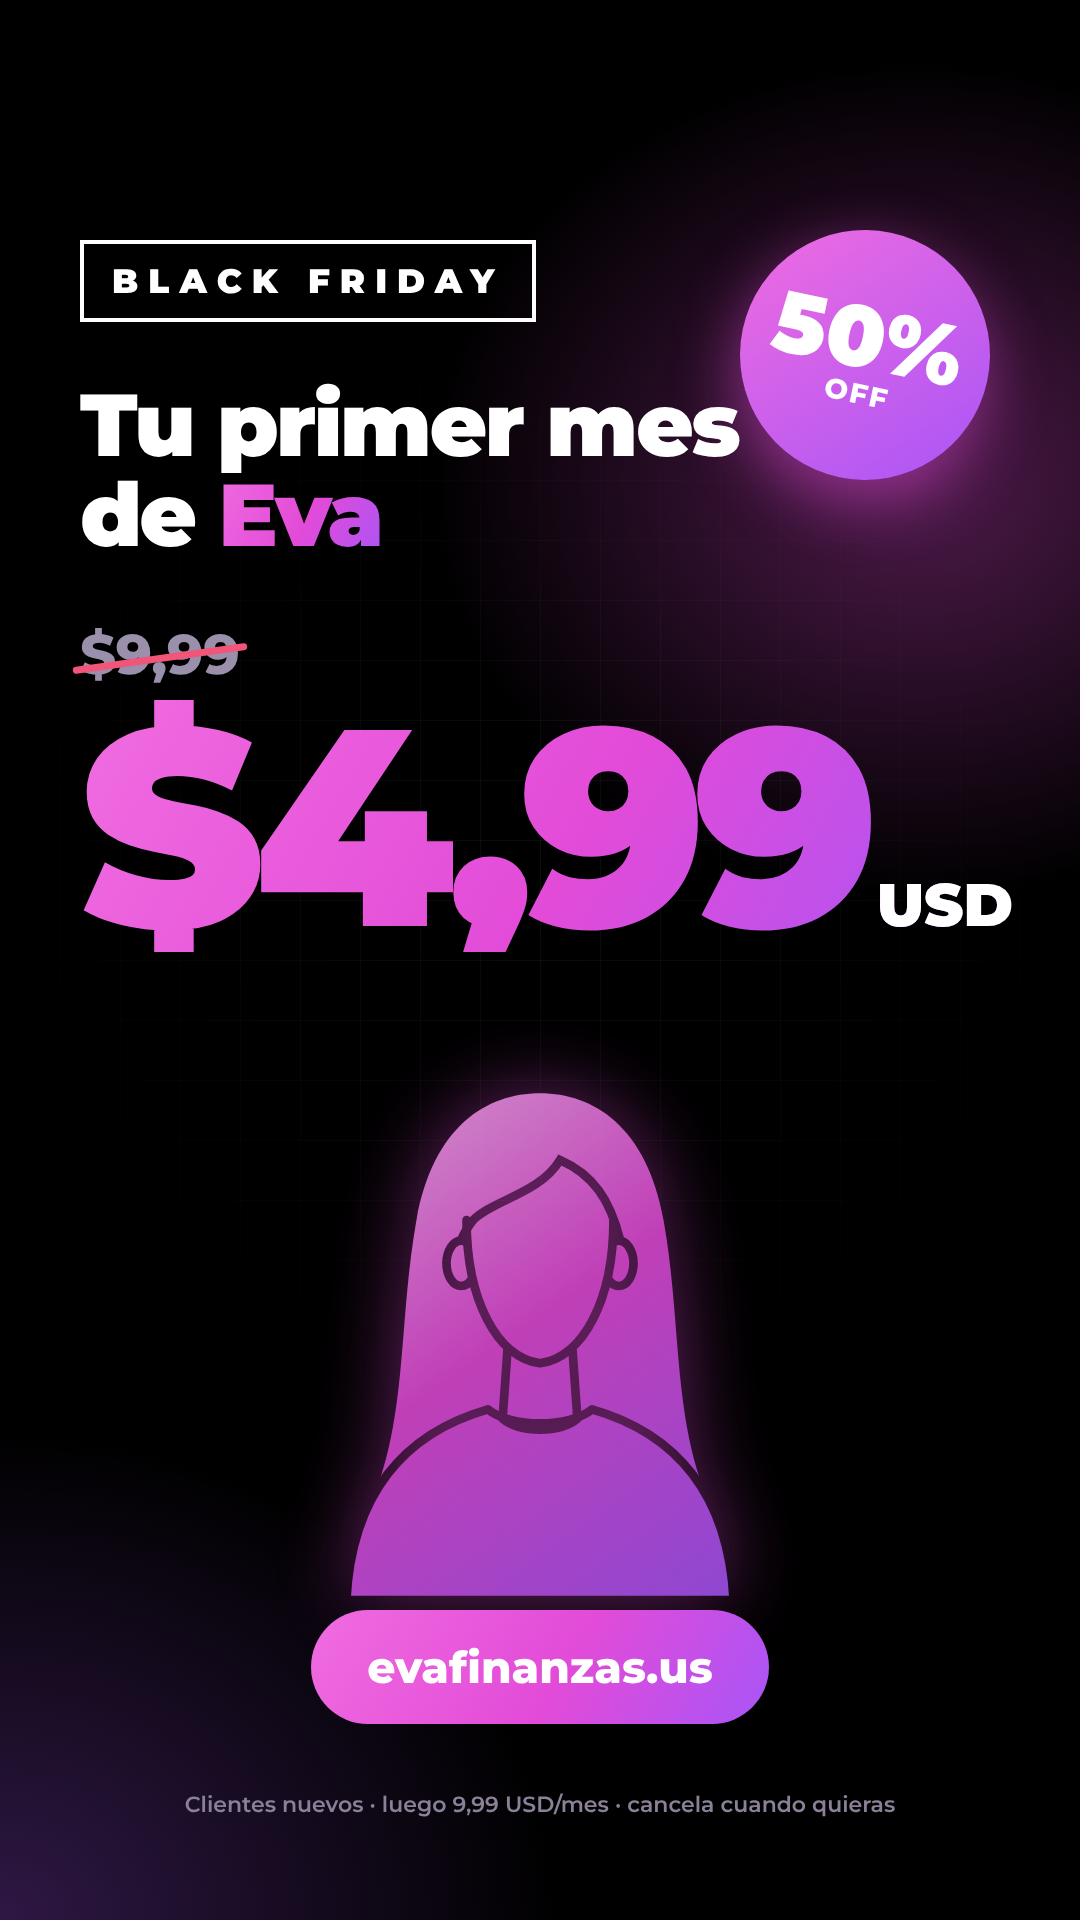
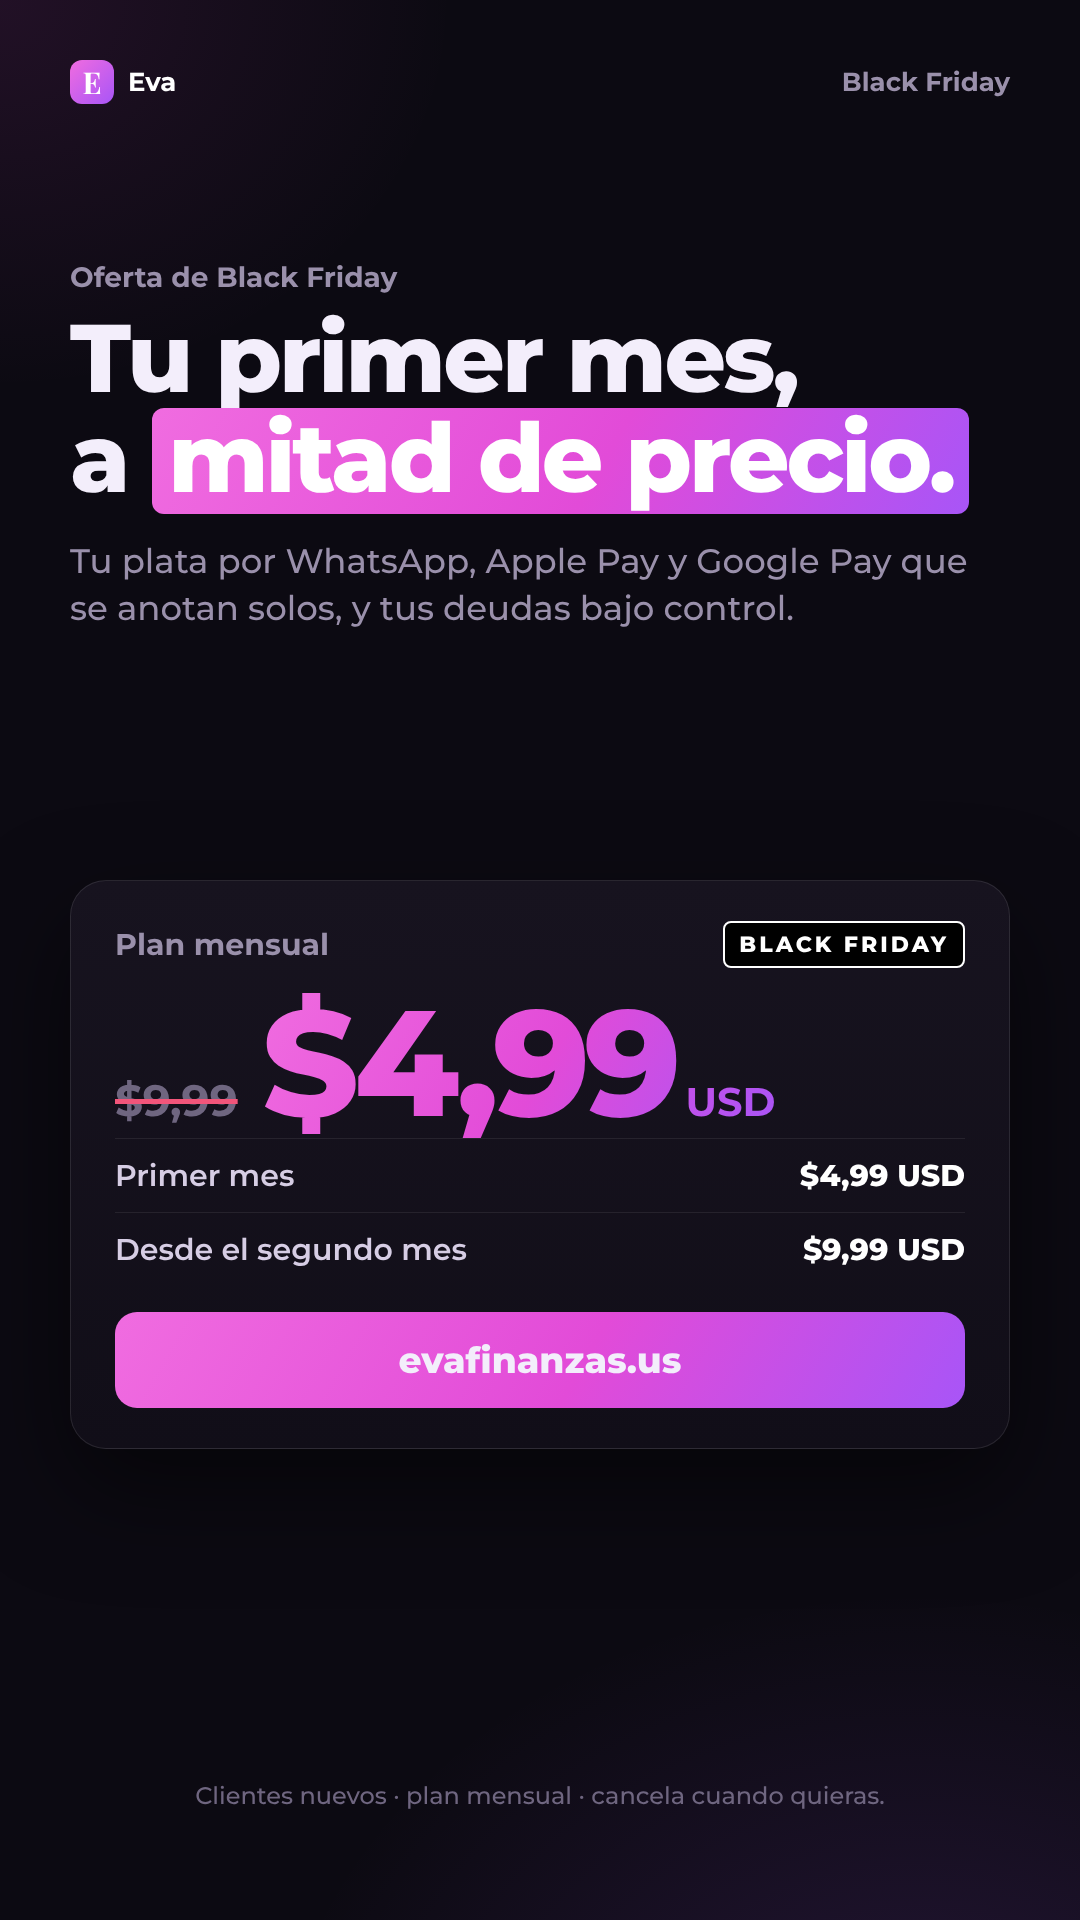
Flyer Black Friday rehecho en estilo app (tipo Structura)
Claude-Session: https://claude.ai/code/session_01Trw1hyWcsiQP2aoeACBkmq

diff --git a/promo/contenido/eva-black-friday-app.html b/promo/contenido/eva-black-friday-app.html
@@ -1,0 +1,95 @@
+<!doctype html>
+<html lang="es"><head><meta charset="utf-8">
+<title>Eva · Black Friday (estilo app)</title>
+<!-- Dos carruseles 1080x1350 estilo "pantallas de producto": A) Tu mes en un chat (6), B) ¿Cuánto te queda de verdad? (5). -->
+<style>
+@font-face{font-family:'Montserrat';font-weight:500;src:url(../fonts/montserrat-latin-500-normal.woff2) format('woff2')}
+@font-face{font-family:'Montserrat';font-weight:600;src:url(../fonts/montserrat-latin-600-normal.woff2) format('woff2')}
+@font-face{font-family:'Montserrat';font-weight:700;src:url(../fonts/montserrat-latin-700-normal.woff2) format('woff2')}
+@font-face{font-family:'Montserrat';font-weight:800;src:url(../fonts/montserrat-latin-800-normal.woff2) format('woff2')}
+@font-face{font-family:'Playfair Display';font-weight:700;src:url(../fonts/playfair-display-latin-700-normal.woff2) format('woff2')}
+:root{--bg:#0C0A12;--rosa:#F06CE0;--brand:#E24BD8;--morado:#A855F7;--txt:#F3EEFB;--muted:#9A90AB;--ok:#2DD4A0;--bad:#F2557A;--oro:#F5B342}
+*{box-sizing:border-box;margin:0;padding:0}
+body{background:#222;font-family:'Montserrat',sans-serif;color:var(--txt)}
+.lam{width:1080px;height:1350px;position:relative;overflow:hidden;background:radial-gradient(1000px 800px at 85% 110%,rgba(168,85,247,.16),transparent 65%),radial-gradient(700px 600px at 0% 0%,rgba(226,75,216,.10),transparent 65%),var(--bg);margin-bottom:20px}
+.hd{position:absolute;left:70px;right:70px;top:60px;display:flex;justify-content:space-between;align-items:center;font-size:26px;font-weight:700;color:var(--muted)}
+.mk{display:flex;align-items:center;gap:14px;color:#fff}
+.mk i{width:44px;height:44px;border-radius:12px;background:linear-gradient(135deg,var(--rosa),var(--morado));display:flex;align-items:center;justify-content:center;font-family:'Playfair Display';font-style:normal;font-size:30px}
+.cp{position:absolute;left:70px;right:70px;top:190px}
+.lbl{font-size:28px;font-weight:700;color:var(--muted)}
+h1{font-size:88px;font-weight:800;letter-spacing:-3px;line-height:1.04;margin-top:14px}
+h2{font-size:72px;font-weight:800;letter-spacing:-2.5px;line-height:1.06;margin-top:14px}
+.sub{font-size:34px;font-weight:500;color:var(--muted);margin-top:24px;line-height:1.4}
+.grad{background:linear-gradient(120deg,var(--rosa),var(--brand) 55%,var(--morado));-webkit-background-clip:text;background-clip:text;-webkit-text-fill-color:transparent}
+.desl{position:absolute;left:70px;bottom:70px;font-size:26px;font-weight:700;padding:16px 28px;border-radius:999px;background:rgba(255,255,255,.07);border:1px solid rgba(255,255,255,.12)}
+.panel{position:absolute;left:70px;right:70px;border-radius:36px;background:linear-gradient(180deg,#17131f,#110e18);border:1px solid rgba(255,255,255,.08);padding:36px 40px}
+.fila{display:flex;align-items:center;gap:24px;padding:22px 0;border-bottom:1px solid rgba(255,255,255,.07);font-size:34px;font-weight:700}
+.fila:last-child{border:0}
+.fila .ic{width:66px;height:66px;border-radius:18px;display:flex;align-items:center;justify-content:center;flex:none}
+.fila .ic svg{width:36px;height:36px;stroke:#fff;fill:none;stroke-width:2.2;stroke-linecap:round;stroke-linejoin:round}
+.fila .tx{flex:1}.fila .tx small{display:block;font-size:24px;font-weight:600;color:var(--muted);margin-top:4px}
+.fila .v{font-weight:800}
+.bar{height:12px;border-radius:6px;background:rgba(255,255,255,.08);margin-top:12px;overflow:hidden}.bar i{display:block;height:100%;border-radius:6px}
+/* teléfono */
+.tel{position:absolute;width:560px;height:900px;border-radius:70px;background:#05040a;border:3px solid #2a2433;padding:22px;box-shadow:0 40px 100px rgba(0,0,0,.6)}
+.tel .scr{width:100%;height:100%;border-radius:52px;background:#0d1714;overflow:hidden;position:relative}
+.tel .top{height:150px;background:#132420;display:flex;align-items:flex-end;gap:18px;padding:0 30px 22px;font-size:30px;font-weight:800}
+.tel .top span{width:56px;height:56px;border-radius:50%;background:linear-gradient(135deg,var(--rosa),var(--morado));display:flex;align-items:center;justify-content:center;font-family:'Playfair Display';font-size:34px}
+.tel .top small{display:block;font-size:20px;font-weight:600;color:#8fb5a8}
+.msgs{padding:26px 24px}
+.b{padding:16px 22px;border-radius:22px;font-size:25px;font-weight:600;width:fit-content;max-width:88%;margin-bottom:14px;line-height:1.35}
+.b.yo{margin-left:auto;background:#1f6f54;border-bottom-right-radius:6px;font-weight:700}
+.b.eva{background:#1d2622;border-bottom-left-radius:6px;color:#dfeee8}
+.b.eva b{color:#F9A8F0}
+.chatL .b{font-size:34px;padding:22px 30px;border-radius:28px}
+.op{display:flex;justify-content:space-between;align-items:center;font-size:40px;font-weight:700;padding:20px 0}
+.op .v{font-weight:800}
+.tot{display:flex;justify-content:space-between;align-items:center;margin-top:16px;padding-top:26px;border-top:2px dashed rgba(255,255,255,.18)}
+.cta{position:absolute;inset:0;display:flex;flex-direction:column;align-items:center;justify-content:center;text-align:center}
+.cta .ico{width:150px;height:150px;border-radius:40px;background:linear-gradient(135deg,var(--rosa),var(--brand) 50%,var(--morado));display:flex;align-items:center;justify-content:center;font-family:'Playfair Display';font-size:110px;box-shadow:0 30px 80px rgba(226,75,216,.35)}
+.cta h2{margin-top:50px;font-size:76px}
+.cta p{font-size:32px;color:var(--muted);margin-top:20px;max-width:780px;line-height:1.4}
+.cta .url{margin-top:44px;font-size:36px;font-weight:800;padding:24px 50px;border-radius:999px;background:#fff;color:#160F22}
+.cta .fine{position:absolute;bottom:70px;font-size:22px;color:#6f6680}
+</style><style>
+.hl{display:inline-block;padding:0 16px 6px;border-radius:12px;background:linear-gradient(120deg,var(--rosa),var(--brand) 55%,var(--morado));color:#fff}
+.pago{position:absolute;left:70px;right:70px;border-radius:36px;background:linear-gradient(180deg,#17131f,#110e18);border:1px solid rgba(255,255,255,.1);padding:40px 44px;box-shadow:0 40px 100px rgba(0,0,0,.5)}
+.pago .t{display:flex;justify-content:space-between;align-items:center;font-size:30px;font-weight:700;color:var(--muted)}
+.pago .tag{font-size:22px;font-weight:800;letter-spacing:3px;color:#fff;background:#000;border:2px solid #fff;padding:8px 14px;border-radius:8px}
+.pago .pl{font-size:44px;font-weight:800;margin-top:26px}
+.pago .old{font-size:44px;font-weight:700;color:#6f6680;text-decoration:line-through;text-decoration-color:var(--bad);text-decoration-thickness:5px}
+.pago .new{font-size:150px;font-weight:800;letter-spacing:-6px;line-height:1}
+.pago .new small{font-size:40px;letter-spacing:0;font-weight:700;color:var(--muted);margin-left:10px}
+.pago .row{display:flex;justify-content:space-between;font-size:30px;font-weight:600;padding:18px 0;border-top:1px solid rgba(255,255,255,.08);color:#d6cde4}
+.pago .row b{color:#fff}
+.pago .btn{margin-top:26px;text-align:center;font-size:36px;font-weight:800;padding:26px;border-radius:22px;background:linear-gradient(120deg,var(--rosa),var(--brand) 55%,var(--morado))}
+</style>
+</head><body>
+
+
+<section class="lam" id="post">
+  <div class="hd"><span class="mk"><i>E</i>Eva</span><span>Black Friday</span></div>
+  <div class="cp" style="top:170px"><div class="lbl">Oferta de Black Friday</div><h1 style="font-size:84px">Tu primer mes,<br>a <span class="hl">mitad de precio.</span></h1></div>
+  <div class="pago" style="top:540px">
+    <div class="t"><span>Plan mensual</span><span class="tag">BLACK FRIDAY</span></div>
+    <div style="display:flex;align-items:baseline;gap:24px;margin-top:20px"><span class="old">$9,99</span><span class="new grad">$4,99<small>USD</small></span></div>
+    <div class="row"><span>Primer mes</span><b>$4,99 USD</b></div>
+    <div class="row"><span>Desde el segundo mes</span><b>$9,99 USD</b></div>
+    <div class="btn">evafinanzas.us</div>
+  </div>
+  <div style="position:absolute;left:70px;right:70px;bottom:56px;font-size:22px;color:#6f6680">Clientes nuevos · plan mensual · cancela cuando quieras.</div>
+</section>
+
+<section class="lam" id="story" style="height:1920px">
+  <div class="hd"><span class="mk"><i>E</i>Eva</span><span>Black Friday</span></div>
+  <div class="cp" style="top:260px"><div class="lbl">Oferta de Black Friday</div><h1 style="font-size:96px">Tu primer mes,<br>a <span class="hl">mitad de precio.</span></h1><p class="sub">Tu plata por WhatsApp, Apple Pay y Google Pay que se anotan solos, y tus deudas bajo control.</p></div>
+  <div class="pago" style="top:880px">
+    <div class="t"><span>Plan mensual</span><span class="tag">BLACK FRIDAY</span></div>
+    <div style="display:flex;align-items:baseline;gap:24px;margin-top:20px"><span class="old">$9,99</span><span class="new grad">$4,99<small>USD</small></span></div>
+    <div class="row"><span>Primer mes</span><b>$4,99 USD</b></div>
+    <div class="row"><span>Desde el segundo mes</span><b>$9,99 USD</b></div>
+    <div class="btn">evafinanzas.us</div>
+  </div>
+  <div style="position:absolute;left:70px;right:70px;bottom:110px;text-align:center;font-size:24px;color:#6f6680">Clientes nuevos · plan mensual · cancela cuando quieras.</div>
+</section>
+</body></html>
